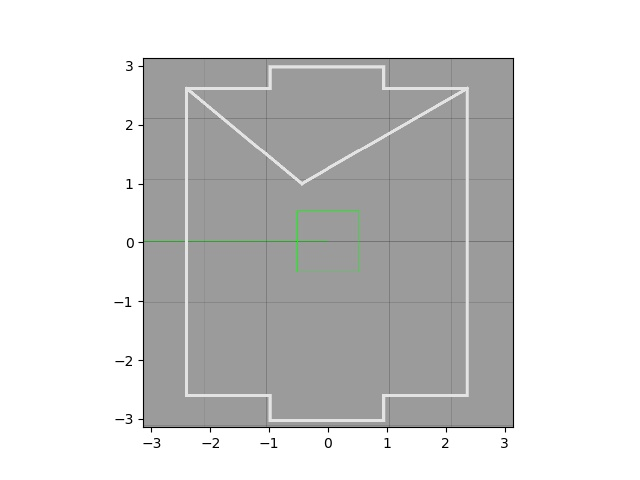
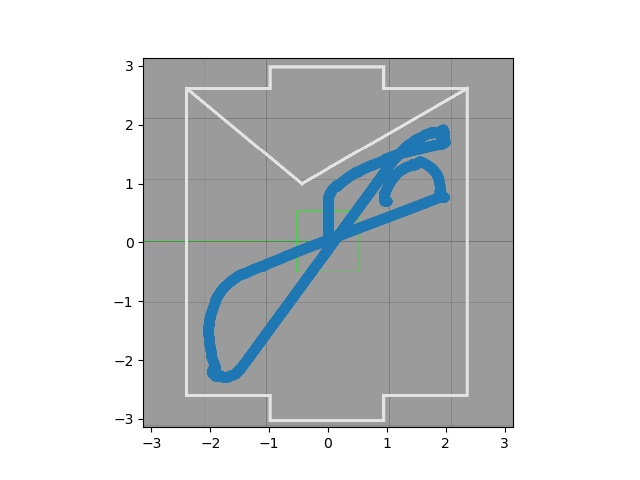
Printed results ex1

Changed region(s): [[0.3125, 0.25, 0.7188, 0.8125]]

diff --git a/exercise_1/create_visualisation.py b/exercise_1/create_visualisation.py
@@ -18,7 +18,7 @@ for i in range(1,6):
     plt.scatter(-point_list[1:,1],point_list[1:,0])
     #plt.show()
     plt.savefig("/home/enrico/catkin_ws/src/exercise_1/"+str(i)+".jpg")
-
+    plt.clf()
 
 
 
